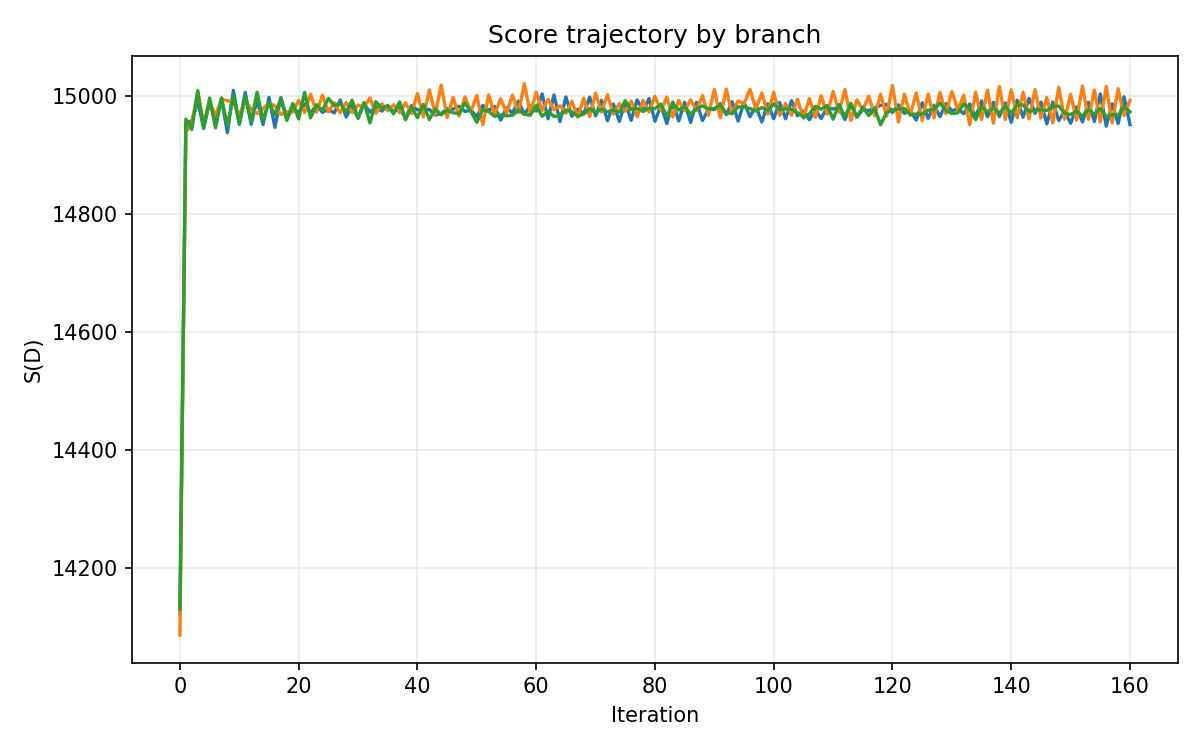
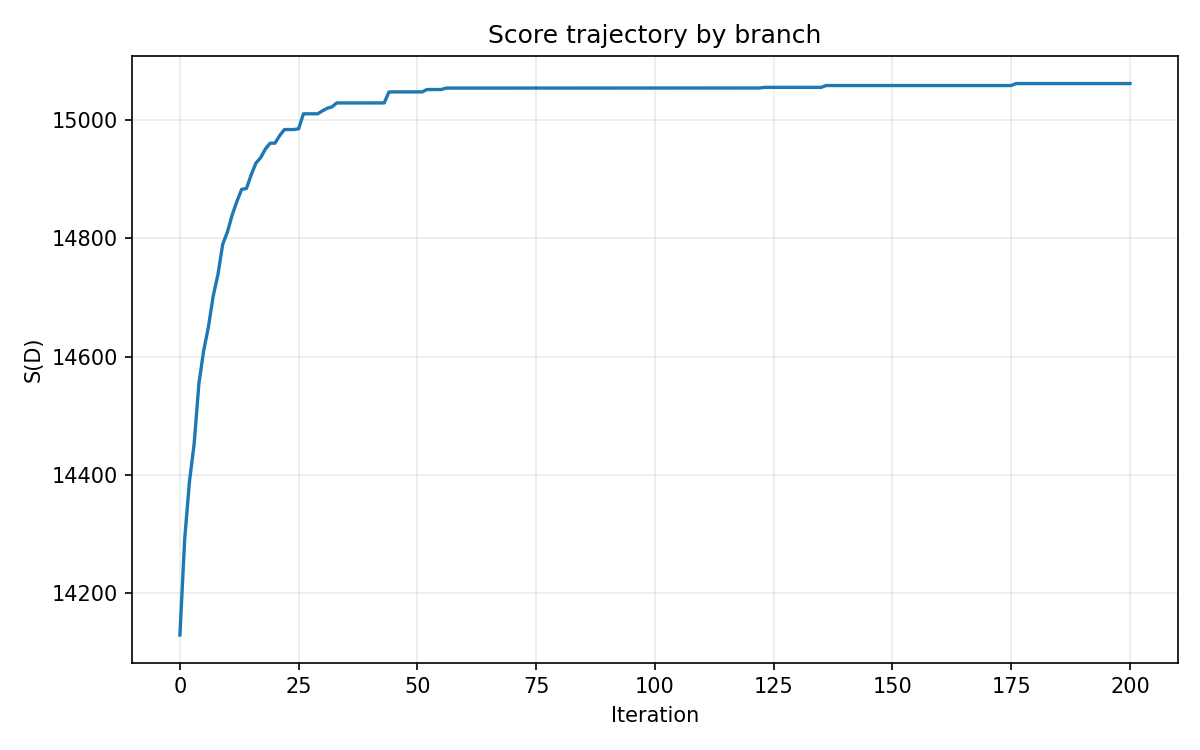
optimize group mode in calculate_my_mask by GA

diff --git a/calculate_my_mask.py b/calculate_my_mask.py
@@ -78,7 +78,7 @@ def parse_args() -> argparse.Namespace:
     parser.add_argument(
         "--compare",
         action=argparse.BooleanOptionalAction,
-        default=True,
+        default=False,
         help="group 模式下是否额外对比 topk",
     )
     return parser.parse_args()
@@ -276,8 +276,12 @@ def select_group_mask(
     else:
         target_size = 0
 
-    rho_min = 0.01
-    rho_max = 0.5
+    ga_population_size = 4
+    ga_generations = 200
+    ga_offspring = ga_population_size
+    crossover_sym_ratio = 0.7
+    mutation_ratio = 0.01
+    local_search_ratio = 0.02
 
     def _real_stats(cur_mask: np.ndarray) -> tuple[float, np.ndarray, np.ndarray]:
         div_scores = np.asarray(
@@ -309,138 +313,145 @@ def select_group_mask(
         s_val = float(np.sum(s_ref[cur_mask.astype(bool)]))
         return s_val, s_ref, counts
 
-    branch_total = max(1, int(branch_count))
-    outer_iters = max(1, int(debug_outer))
-    branch_histories: list[list[float]] = []
-    branch_best_scores: list[float] = []
-    branch_best_iters: list[int] = []
+    def _indices_to_mask(indices: np.ndarray) -> np.ndarray:
+        mask = np.zeros(num_samples, dtype=np.uint8)
+        if indices.size > 0:
+            mask[indices] = 1
+        return mask
 
-    global_best_s = float("-inf")
-    global_best_mask = np.zeros(num_samples, dtype=np.uint8)
-    global_best_branch = 0
-    global_best_iter = 0
+    def _pick_top_static(candidate_idx: np.ndarray, k: int) -> np.ndarray:
+        if k <= 0 or candidate_idx.size == 0:
+            return np.empty(0, dtype=np.int64)
+        order = np.argsort(-sa_scores_np[candidate_idx])
+        return candidate_idx[order[: min(k, candidate_idx.size)]].astype(np.int64)
 
-    for branch_idx in range(branch_total):
-        selected_mask = np.zeros(num_samples, dtype=np.uint8)
-        init_count = target_size
-        init_idx = np.random.choice(num_samples, size=init_count, replace=False)
-        selected_mask[init_idx] = 1
-        rho = float(rho_max)
+    def _repair_size(indices: np.ndarray) -> np.ndarray:
+        unique_idx = np.unique(indices.astype(np.int64))
+        if target_size == 0:
+            return np.empty(0, dtype=np.int64)
+        if unique_idx.size > target_size:
+            return _pick_top_static(unique_idx, target_size)
+        if unique_idx.size < target_size:
+            comp = np.setdiff1d(np.arange(num_samples, dtype=np.int64), unique_idx, assume_unique=False)
+            fill = _pick_top_static(comp, target_size - unique_idx.size)
+            unique_idx = np.concatenate([unique_idx, fill])
+        if unique_idx.size > target_size:
+            unique_idx = _pick_top_static(unique_idx, target_size)
+        return unique_idx.astype(np.int64)
 
-        branch_best_mask = selected_mask.copy()
-        branch_best_s, _, _ = _real_stats(branch_best_mask)
-        branch_best_iter = 0
-        branch_scores = [float(branch_best_s)]
+    def _evaluate(indices: np.ndarray) -> dict[str, object]:
+        mask = _indices_to_mask(indices)
+        fitness, s_ref, counts = _real_stats(mask)
+        return {
+            "indices": np.sort(indices.astype(np.int64)),
+            "mask": mask,
+            "fitness": float(fitness),
+            "s_ref": s_ref,
+            "counts": counts,
+        }
 
-        outer_iterator = tqdm(
-            range(outer_iters),
-            desc=(progress_desc or "Group optimization") + f" [b{branch_idx + 1}/{branch_total}]",
-            unit="outer",
-            leave=True,
-        )
+    def _tournament_select(population: list[dict[str, object]]) -> dict[str, object]:
+        if len(population) == 1:
+            return population[0]
+        chosen = np.random.choice(len(population), size=2, replace=False)
+        a = population[int(chosen[0])]
+        b = population[int(chosen[1])]
+        return a if float(a["fitness"]) >= float(b["fitness"]) else b
 
-        for outer_idx in outer_iterator:
-            div_scores = np.asarray(
-                div_metric.score_dataset_dynamic(
-                    div_loader,
-                    adapter=image_adapter,
-                    selected_mask=selected_mask,
-                    image_features=div_features,
-                    labels=labels_t,
-                ).scores,
+    static_topk = _pick_top_static(np.arange(num_samples, dtype=np.int64), target_size)
+    initial_population_idx: list[np.ndarray] = [static_topk]
+    while len(initial_population_idx) < ga_population_size:
+        random_idx = np.random.choice(num_samples, size=target_size, replace=False).astype(np.int64)
+        initial_population_idx.append(np.sort(random_idx))
+
+    population = [_evaluate(_repair_size(idx)) for idx in initial_population_idx]
+    best_history = [max(float(item["fitness"]) for item in population)]
+
+    generation_iter = tqdm(
+        range(ga_generations),
+        desc=(progress_desc or "Group optimization") + " [Memetic-GA]",
+        unit="gen",
+        leave=True,
+    )
+
+    for _ in generation_iter:
+        offspring: list[dict[str, object]] = []
+        for _offspring_idx in range(ga_offspring):
+            parent_a = _tournament_select(population)
+            parent_b = _tournament_select(population)
+            parent_a_idx = np.asarray(parent_a["indices"], dtype=np.int64)
+            parent_b_idx = np.asarray(parent_b["indices"], dtype=np.int64)
+
+            inter = np.intersect1d(parent_a_idx, parent_b_idx, assume_unique=False)
+            sym = np.setdiff1d(np.union1d(parent_a_idx, parent_b_idx), inter, assume_unique=False)
+            child = inter.copy()
+
+            max_from_sym = min(target_size, inter.size + int(np.floor(crossover_sym_ratio * target_size)))
+            if child.size < target_size and sym.size > 0:
+                need_sym = max(0, max_from_sym - child.size)
+                if need_sym > 0:
+                    add_sym = _pick_top_static(sym, need_sym)
+                    child = np.concatenate([child, add_sym])
+
+            if child.size < target_size:
+                complement_union = np.setdiff1d(
+                    np.arange(num_samples, dtype=np.int64),
+                    np.union1d(parent_a_idx, parent_b_idx),
+                    assume_unique=False,
+                )
+                add_comp = _pick_top_static(complement_union, target_size - child.size)
+                child = np.concatenate([child, add_comp])
+
+            child = _repair_size(child)
+
+            k_mut = max(1, int(mutation_ratio * target_size))
+            k_mut = min(k_mut, child.size, num_samples - child.size)
+            if k_mut > 0:
+                drop_idx = np.random.choice(child, size=k_mut, replace=False).astype(np.int64)
+                comp_child = np.setdiff1d(np.arange(num_samples, dtype=np.int64), child, assume_unique=False)
+                add_idx = np.random.choice(comp_child, size=k_mut, replace=False).astype(np.int64)
+                child = np.setdiff1d(child, drop_idx, assume_unique=False)
+                child = np.concatenate([child, add_idx])
+                child = _repair_size(child)
+
+            proxy_scores = np.asarray(
+                parent_a["s_ref"] if float(parent_a["fitness"]) >= float(parent_b["fitness"]) else parent_b["s_ref"],
                 dtype=np.float32,
             )
-            dds_scores = np.asarray(
-                dds_metric.score_dataset_dynamic(
-                    dds_loader,
-                    adapter=image_adapter,
-                    selected_mask=selected_mask,
-                    image_features=dds_features,
-                    labels=labels_t,
-                ).scores,
-                dtype=np.float32,
-            )
-            s_all = (
-                weights["sa"] * sa_scores_np
-                + weights["div"] * div_scores
-                + weights["dds"] * dds_scores
-            )
+            k_ls = max(1, int(local_search_ratio * target_size))
+            k_ls = min(k_ls, child.size, num_samples - child.size)
+            if k_ls > 0:
+                child_order = np.argsort(proxy_scores[child])
+                ls_drop = child[child_order[:k_ls]]
+                child_comp = np.setdiff1d(np.arange(num_samples, dtype=np.int64), child, assume_unique=False)
+                ls_add_order = np.argsort(-proxy_scores[child_comp])
+                ls_add = child_comp[ls_add_order[:k_ls]]
+                child = np.setdiff1d(child, ls_drop, assume_unique=False)
+                child = np.concatenate([child, ls_add])
+                child = _repair_size(child)
 
-            selected_idx = np.flatnonzero(selected_mask == 1)
-            unselected_idx = np.flatnonzero(selected_mask == 0)
-            k_replace = max(1, int(round(rho * target_size)))
-            k_replace = min(k_replace, selected_idx.size, unselected_idx.size)
+            offspring.append(_evaluate(child))
 
-            if k_replace > 0:
-                drop_order = np.argsort(s_all[selected_idx])
-                idx_drop = selected_idx[drop_order[:k_replace]]
+        merged = population + offspring
+        merged_sorted = sorted(merged, key=lambda item: float(item["fitness"]), reverse=True)
+        dedup_population: list[dict[str, object]] = []
+        seen: set[tuple[int, ...]] = set()
+        for item in merged_sorted:
+            key = tuple(np.asarray(item["indices"], dtype=np.int64).tolist())
+            if key in seen:
+                continue
+            seen.add(key)
+            dedup_population.append(item)
+            if len(dedup_population) >= ga_population_size:
+                break
+        population = dedup_population
 
-                add_order = np.argsort(-s_all[unselected_idx])
-                idx_add = unselected_idx[add_order[:k_replace]]
+        generation_best = max(float(item["fitness"]) for item in population)
+        best_history.append(generation_best)
+        generation_iter.set_postfix({"best_S": f"{generation_best:.4f}"})
 
-                candidate_mask = selected_mask.copy()
-                candidate_mask[idx_drop] = 0
-                candidate_mask[idx_add] = 1
-            else:
-                candidate_mask = selected_mask.copy()
-
-            candidate_idx = np.flatnonzero(candidate_mask == 1)
-            if candidate_idx.size < target_size:
-                candidate_unselected = np.flatnonzero(candidate_mask == 0)
-                if candidate_unselected.size > 0:
-                    need = min(target_size - candidate_idx.size, candidate_unselected.size)
-                    fill_order = np.argsort(-s_all[candidate_unselected])
-                    fill_idx = candidate_unselected[fill_order[:need]]
-                    candidate_mask[fill_idx] = 1
-                    candidate_idx = np.flatnonzero(candidate_mask == 1)
-            if candidate_idx.size > target_size:
-                keep_order = np.argsort(-s_all[candidate_idx])
-                keep_idx = candidate_idx[keep_order[:target_size]]
-                candidate_mask = np.zeros(num_samples, dtype=np.uint8)
-                candidate_mask[keep_idx] = 1
-
-            candidate_s, _, _ = _real_stats(candidate_mask)
-            current_s = branch_scores[-1]
-            if outer_idx < 2:
-                accept = candidate_s >= current_s
-            else:
-                base = min(branch_scores[-1], branch_scores[-2])
-                accept = candidate_s >= base
-
-            if accept:
-                selected_mask = candidate_mask
-                accepted_s = float(candidate_s)
-                rho = min(rho_max, rho * 1.1)
-            else:
-                accepted_s = float(current_s)
-                rho = max(rho_min, rho * 0.5)
-
-            branch_scores.append(accepted_s)
-            if accepted_s > branch_best_s:
-                branch_best_s = float(accepted_s)
-                branch_best_mask = selected_mask.copy()
-                branch_best_iter = outer_idx + 1
-
-            if branch_best_s > global_best_s:
-                global_best_s = float(branch_best_s)
-                global_best_mask = branch_best_mask.copy()
-                global_best_branch = branch_idx
-                global_best_iter = branch_best_iter
-
-            outer_iterator.set_postfix(
-                {
-                    "branch_best_S": f"{branch_best_s:.4f}",
-                    "branch_best_iter": branch_best_iter,
-                    "global_best_S": f"{global_best_s:.4f}",
-                    "global_best_branch": global_best_branch + 1,
-                }
-            )
-
-        branch_histories.append(branch_scores)
-        branch_best_scores.append(float(branch_best_s))
-        branch_best_iters.append(int(branch_best_iter))
-
-    final_mask = global_best_mask.astype(np.uint8)
+    best_individual = max(population, key=lambda item: float(item["fitness"]))
+    final_mask = np.asarray(best_individual["mask"], dtype=np.uint8)
     _, final_s_all, _ = _real_stats(final_mask)
 
     selected_by_class: dict[int, int] = {}
@@ -457,13 +468,16 @@ def select_group_mask(
         "final_rate": final_rate,
         "selected_by_class": selected_by_class,
         "S": float(np.sum(final_s_all[final_mask.astype(bool)])),
-        "outer_iters": int(outer_iters),
-        "branch_count": int(branch_total),
-        "best_branch": int(global_best_branch + 1),
-        "best_iter": int(global_best_iter),
-        "branch_best_scores": branch_best_scores,
-        "branch_best_iters": branch_best_iters,
-        "branch_score_histories": branch_histories,
+        "outer_iters": int(ga_generations),
+        "branch_count": int(ga_population_size),
+        "best_branch": 1,
+        "best_iter": int(np.argmax(np.asarray(best_history, dtype=np.float32))),
+        "branch_best_scores": [float(np.max(np.asarray(best_history, dtype=np.float32)))],
+        "branch_best_iters": [int(np.argmax(np.asarray(best_history, dtype=np.float32)))],
+        "branch_score_histories": [best_history],
+        "ga_population_size": int(ga_population_size),
+        "ga_generations": int(ga_generations),
+        "ga_offspring": int(ga_offspring),
     }
 
     return final_mask, selected_by_class, stats
